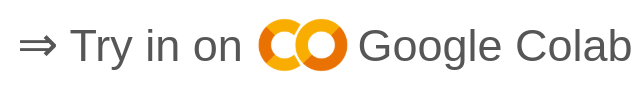
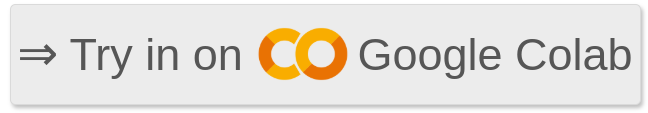
Update README

diff --git a/README.md b/README.md
@@ -24,11 +24,9 @@ Further studies [[7]](#7), [[8]](#8), [[9]](#9) have also investigated neuromorp
 
 Impact Statement - This project introduces a novel approach for solving Constraint Satisfaction Problems using Spiking Neural Networks (SNNs) with neuromorphic tools like the GeNN framework and SpiNNaker platform. It presents a fully spiking pipeline incorporating constraint stabilization, neuron idling, and built-in validation to enhance efficiency in SNN-based Sudoku solvers. The approach significantly reduces extracted spikes (54.63%–99.98%) and extraction time (88.56%–96.41%), leading to improved energy efficiency and computational performance. The findings highlight the potential of neuromorphic hardware for implementing effective, low-power solutions applicable to AI, IoT, and Industry 4.0.
 
-<div>
 <a href="https://colab.research.google.com/drive/1cHY85Zk4AV1IdK1GK3qbbm_BRIWdUyMX?usp=sharing">
-    <img src="article/image/googleColab.png" alt="Google Colab" style="width:28%;padding: 7px 6px 2px 6px;border:1.5px solid #252525;border-radius: 5px;box-shadow: 0px 5px 5px 0px #000000;">
+    <img src="article/image/googleColab.png" alt="Google Colab" width=26%>
 </a>
-</div>
 
 
 ### Reference
